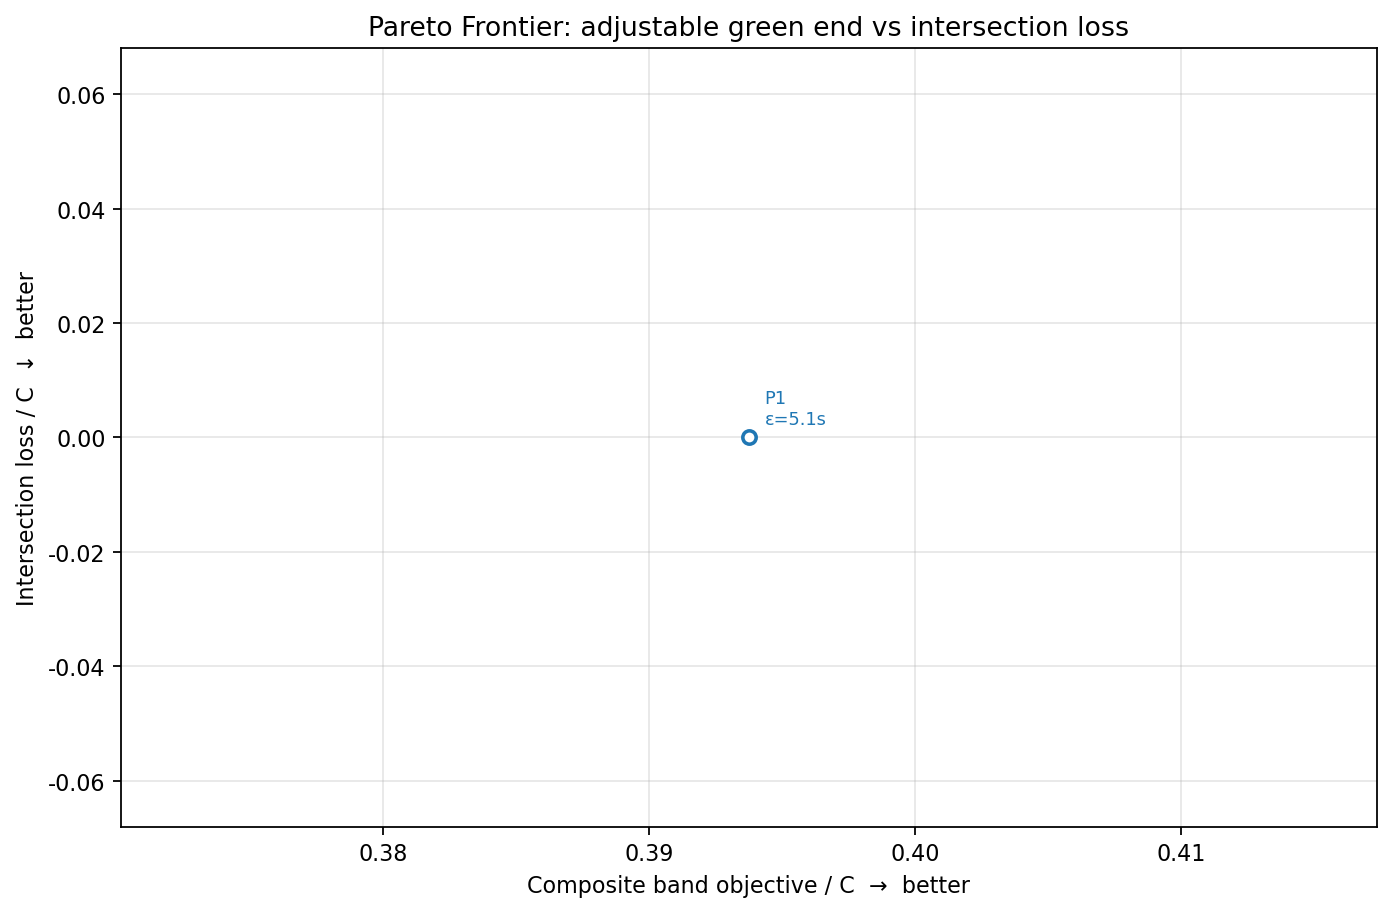
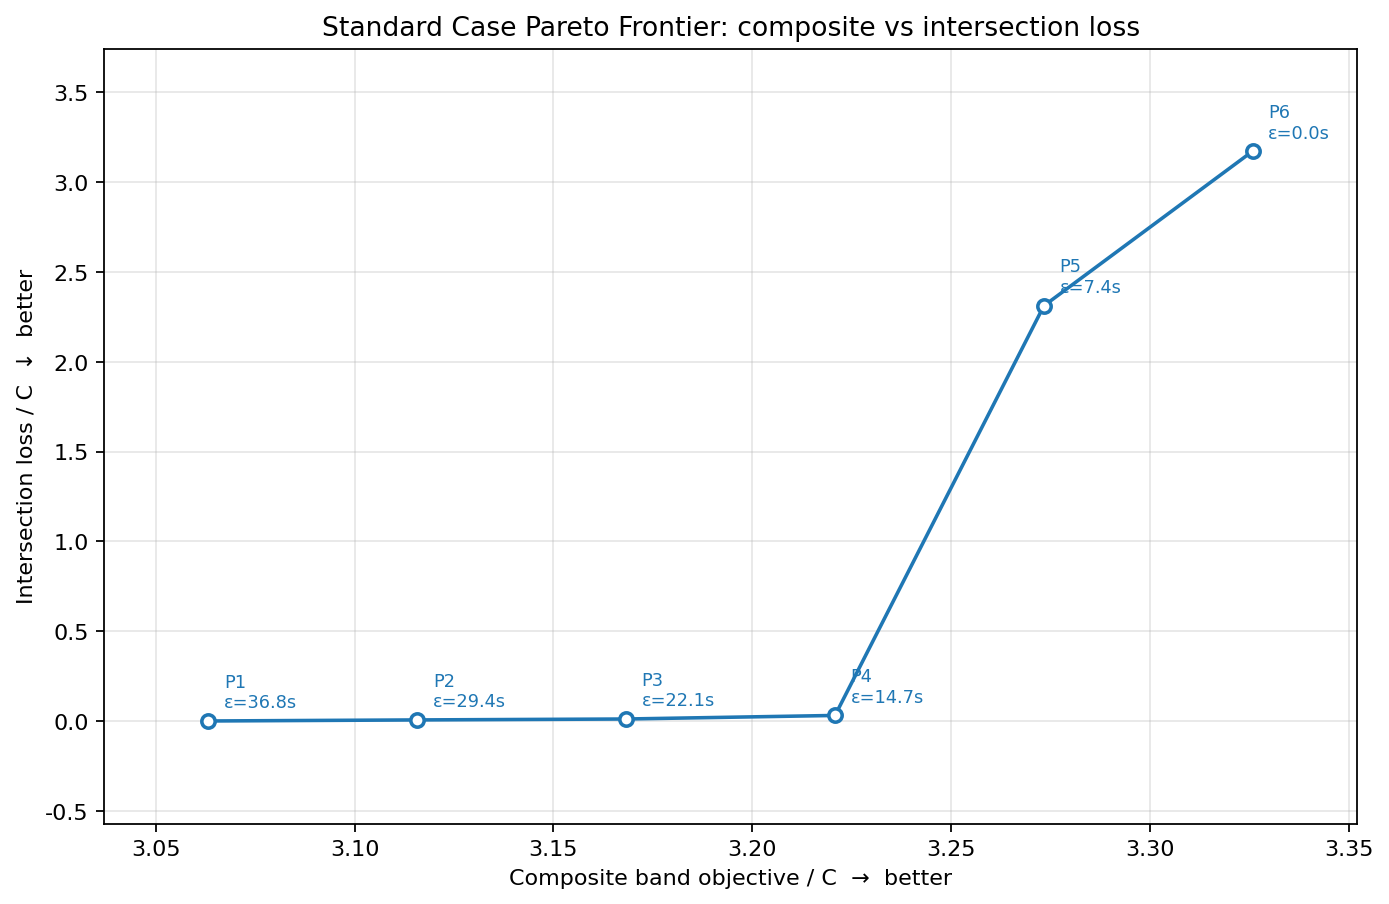
Use standard problem for 20-point Pareto frontier

diff --git a/examples/generate_pareto.py b/examples/generate_pareto.py
@@ -1,8 +1,8 @@
-"""Generate a Pareto-frontier plot for one selected case.
+"""Generate a Pareto-frontier plot for examples/standard_problem.json.
 
-The selected case is the T6-style scenario from the design document:
-an adjustable green-window end with an intersection-loss soft constraint.
-The epsilon scan is fine enough to expose several non-dominated points.
+The standard case contains one grid point: C=140s, kappa=1.0.
+This script scans 20 epsilon-constraint points and draws the
+non-dominated composite-vs-intersection-loss frontier.
 
 Run from the project root:
 
@@ -10,6 +10,8 @@ Run from the project root:
 """
 from __future__ import annotations
 
+import copy
+import json
 import os
 import sys
 
@@ -19,59 +21,20 @@ from greenwave import run  # noqa: E402
 from greenwave.report import ParetoFrontierDiagram  # noqa: E402
 
 
-def _seg(from_, to, dist=500.0, v=11.1111111111):
-    return {"from": from_, "to": to, "distance_m": dist,
-            "speed_up_mps": v, "speed_down_mps": v}
-
-
-def _plan(iid, up, down, **extra):
-    obj = {"id": f"{iid}_P1", "intersection": iid, "double_cycle": False,
-           "windows": {"up": up, "down": down},
-           "adjustable": {"up": {}, "down": {}}}
-    obj.update(extra)
-    return obj
-
-
 def build_problem() -> dict:
-    soft = [{
-        "id": "endsoft",
-        "terms": [{
-            "atom": {"kind": "endpoint", "intersection": "I1", "plan": "I1_P1",
-                     "direction": "up", "window": 0, "side": "end"},
-            "coef": 1.0,
-        }],
-        "sense": "<=",
-        "rhs_ratio": 0.40,
-        "hard": False,
-        "soft": {"coef": 10.0, "owner": "intersection_loss"},
-    }]
-    plans = [
-        _plan("I1", [[0.0, 0.45]], [[0.5, 0.95]],
-              adjustable={"up": {"0": {"end": [-0.05, 0.05]}}, "down": {}},
-              soft_constraints=soft),
-        _plan("I2", [[0.0, 0.45]], [[0.5, 0.95]]),
-        _plan("I3", [[0.0, 0.45]], [[0.5, 0.95]]),
-    ]
-    return {
-        "corridor": {
-            "corridor_id": "pareto_adjustable_soft",
-            "intersections": ["I1", "I2", "I3"],
-            "segments": [_seg("I1", "I2"), _seg("I2", "I3")],
-        },
-        "plans": plans,
-        "objective": {
-            "band_demands": [{
-                "id": "GW_up", "type": "green", "direction": "up",
-                "nodes": ["I1", "I2", "I3"], "max_bands": 1, "weight": 1.0,
-                "margin": {"delta_min_s": 0.0, "coef": 1.0},
-            }],
-            "margin_default": {"delta_min_s": 0.0, "coef": 1.0},
-            "pareto": {"num_points": 16, "relax_max": 0.5, "topk_grids": 1},
-        },
-        "grid": {"cycles_s": [90.0], "speed_ratios": [1.0]},
-        "solver": {"backend": "scipy", "time_limit_s": 30, "mip_rel_gap": 0.0,
-                   "num_workers": 1, "heuristic": {"enabled": False, "refine_rounds": 0}},
+    here = os.path.dirname(os.path.abspath(__file__))
+    with open(os.path.join(here, "standard_problem.json"), "r", encoding="utf-8") as f:
+        problem = json.load(f)
+
+    # ParetoFrontierDiagram 会画 num_points+1 个 epsilon 采样点；
+    # 这里要 20 个点，所以 num_points=19。
+    problem = copy.deepcopy(problem)
+    problem["objective"]["pareto"] = {
+        "num_points": 19,
+        "relax_max": problem["objective"].get("pareto", {}).get("relax_max", 0.3),
+        "topk_grids": 1,
     }
+    return problem
 
 
 def main() -> None:
@@ -81,10 +44,12 @@ def main() -> None:
     out_path = os.path.join(out_dir, "08_pareto_frontier.png")
     ParetoFrontierDiagram.render(
         result, out_path,
-        title="Pareto Frontier: adjustable green end vs intersection loss",
+        title="Standard Case Pareto Frontier: composite vs intersection loss",
     )
     print(f"wrote {out_path}")
-    for p in result["pareto"]["points"]:
+    points = result["pareto"]["points"]
+    print(f"pareto points: {len(points)}")
+    for p in points:
         print(f"epsilon={p['epsilon']:.3f}s  composite={p['composite_actual']:.3f}s  "
               f"loss={p['intersection_loss']:.3f}s")
 
